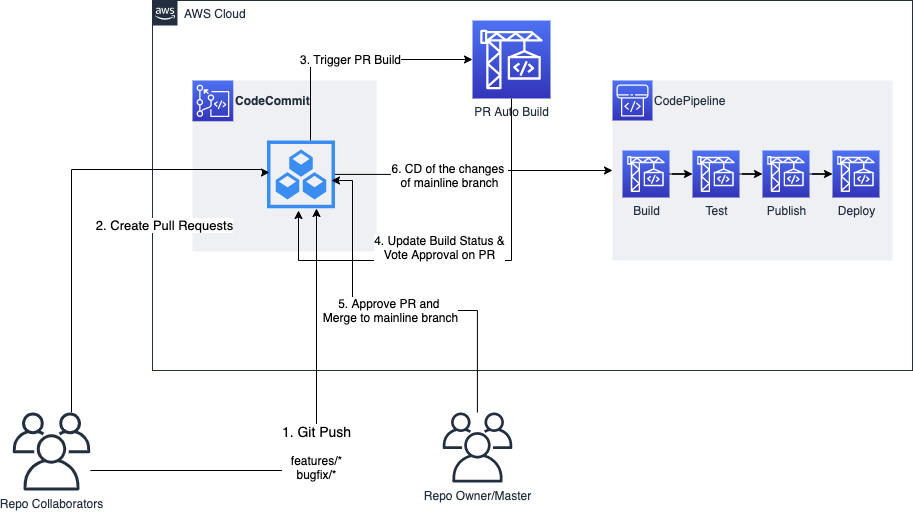
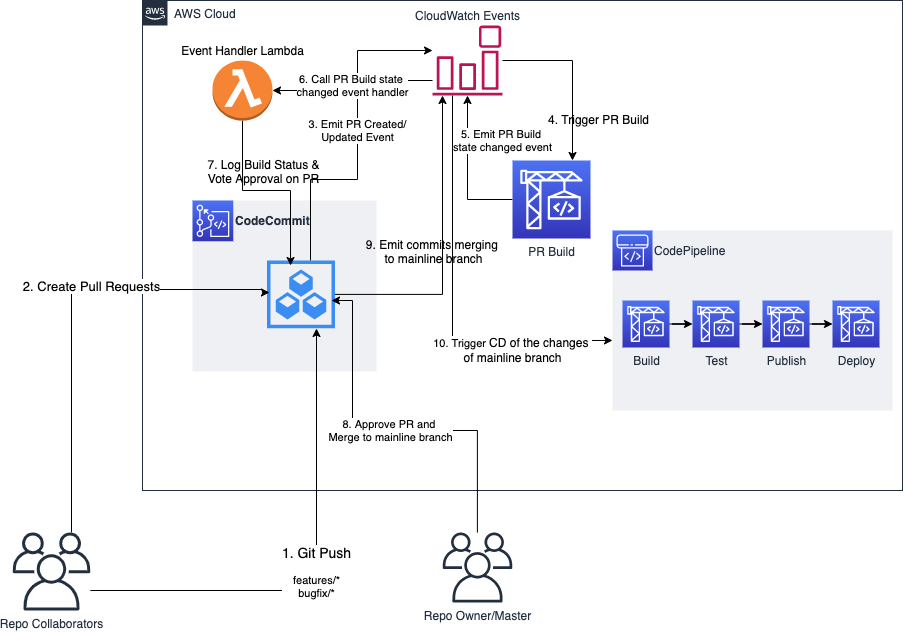
[doc] Update the arch graphic to include Cloudwatch events.

Changed region(s): [[0.0, 0.0, 0.9922, 1.0], [0.9922, 0.7188, 1.0, 0.7812]]

diff --git a/README.zh-CN.md b/README.zh-CN.md
@@ -18,7 +18,7 @@ AWS CodeCommit是一个**托管的**、**安全的**、**Git**源代码管理服
 
 完整的工作流程图如下，
 
-![基于 AWS CodeCommit 的 Devops 最佳实践](arch.png)
+![基于 AWS CodeCommit 的 Devops 最佳实践](arch.zh-CN.png)
 
 这个最佳实践通过[AWS CDK][cdk]/[CloudFormation][cloudformation]贯穿了基础架构即代码的理念，即使企业有成百数千的代码仓库也可以按最佳实践的方式统一管理。
 
